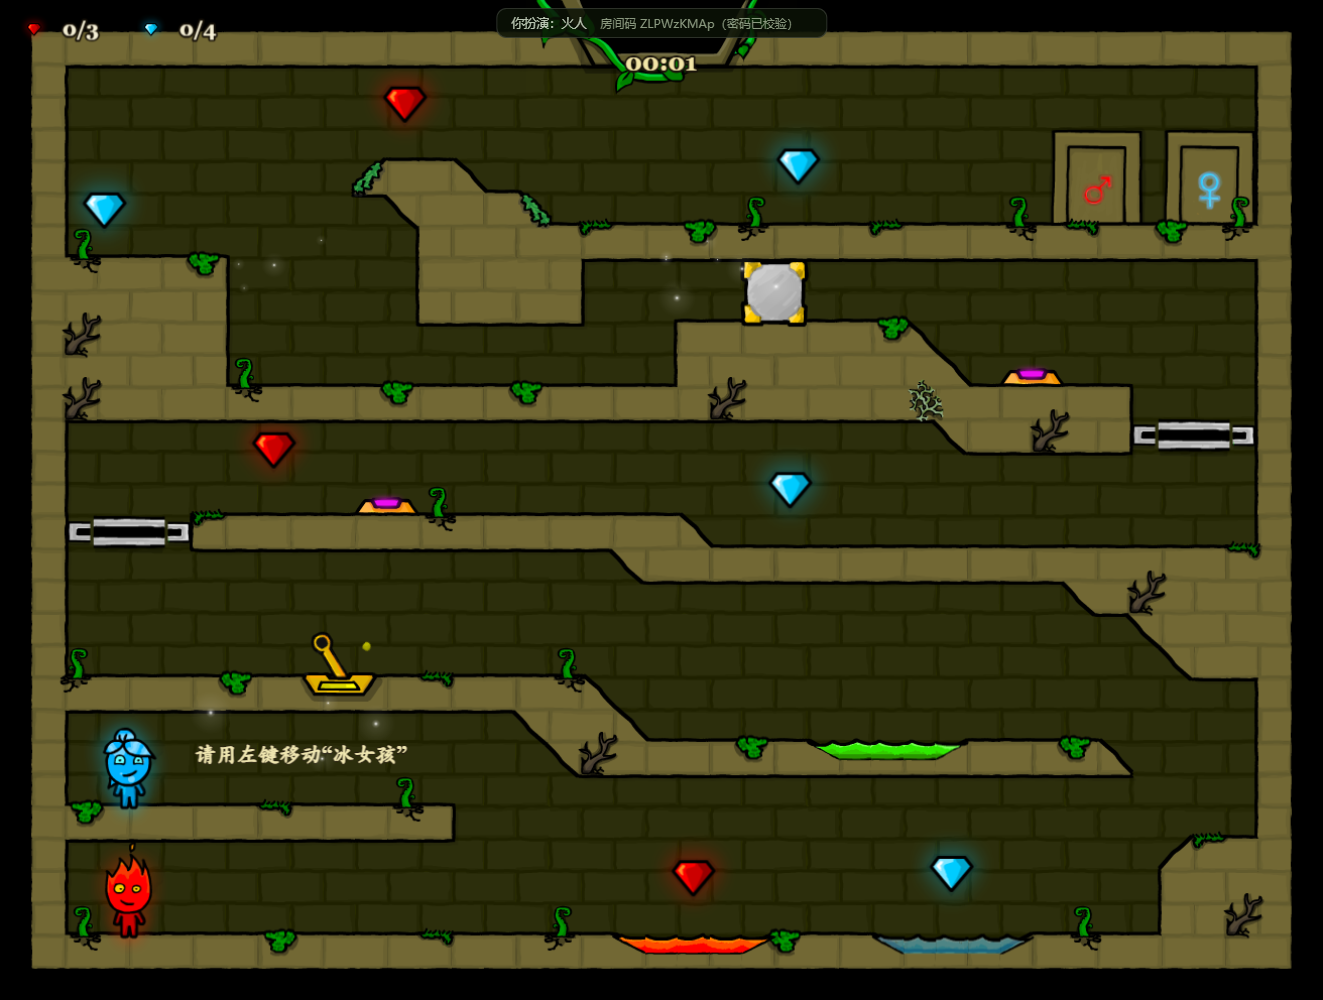
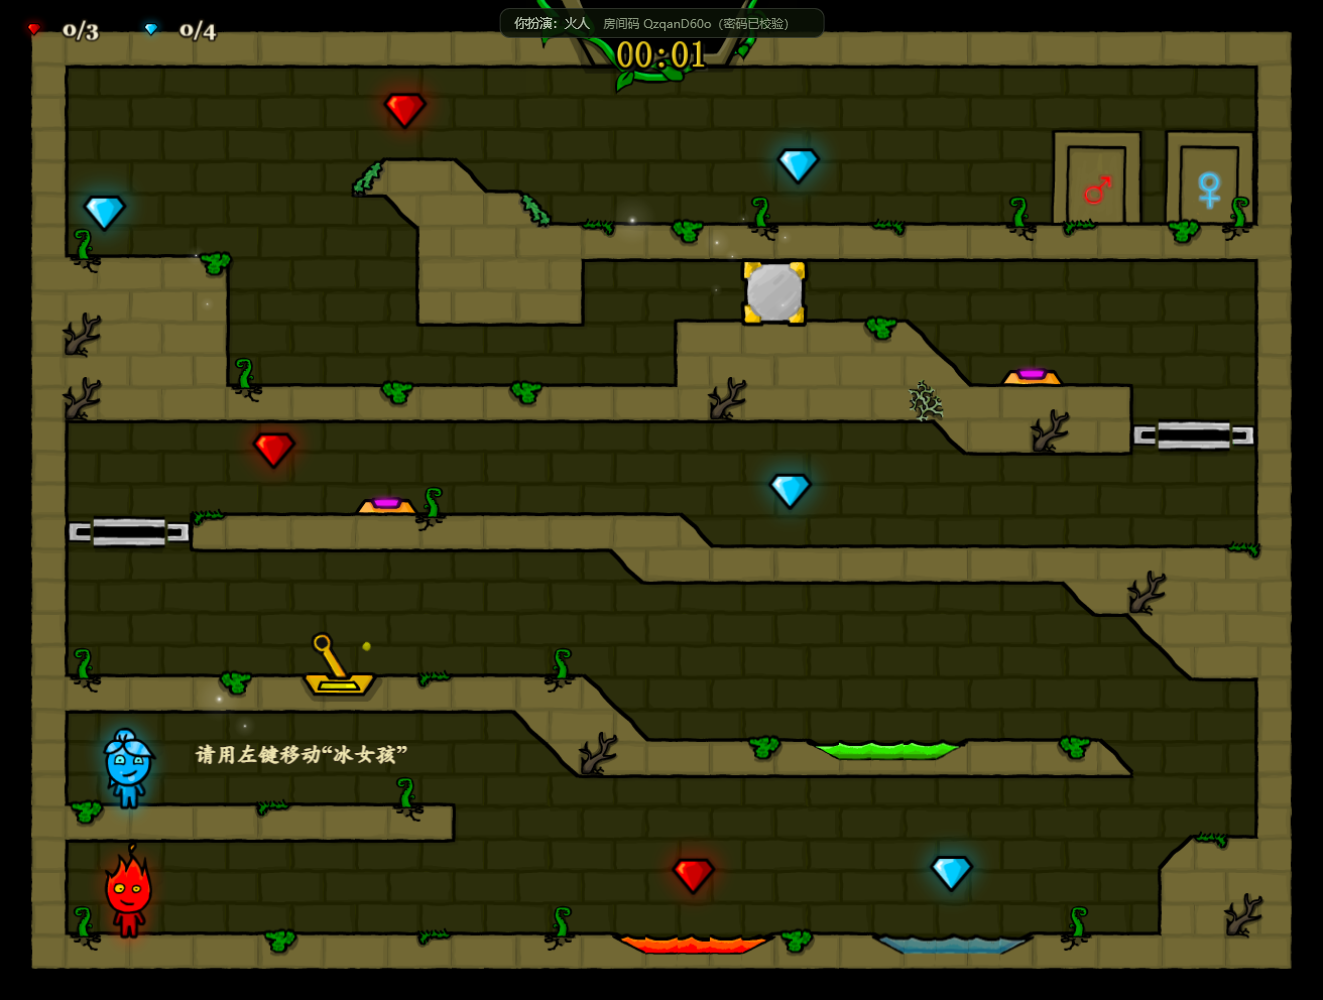
fix(client): 画布内时钟换原版位图字 + 视觉基准网格热图（R8）
- BootScene 加载 font.fnt 位图字；GameScene 时钟文字改 BitmapText（原版字形）
- visual-diff 升级 12×9 网格热图（剩余差异定位：顶行 PAD 字边 + HUD 增项）
- 入房竞态守卫（房间码部分读取重读）
- 报告 §十；版本 0.3.6 → 0.3.7

diff --git a/gyのFW/packages/client/src/scenes/GameScene.ts b/gyのFW/packages/client/src/scenes/GameScene.ts
@@ -21,7 +21,7 @@ import type { LevelData, Rect } from "@fw/shared/level2";
 import type { FinishData, Net } from "../net";
 import type { KeyboardInput } from "../input";
 import { createSeedrandomFactory } from "../vendor/seedrandom.js";
-import { ATLAS_CHARS, ATLAS_GROUND, ATLAS_MECH, ATLAS_MENU, ATLAS_POPUP, ATLAS_TEMPLE, PLAYER_SCALE } from "./BootScene";
+import { ATLAS_CHARS, ATLAS_GROUND, ATLAS_MECH, ATLAS_MENU, ATLAS_POPUP, ATLAS_TEMPLE, FONT_MAIN, PLAYER_SCALE } from "./BootScene";
 
 export interface GameInit {
   net: Net;
@@ -132,7 +132,7 @@ export class GameScene extends Phaser.Scene {
   private windViews = new Map<string, WindView>();
   private doorSprites = new Map<Role, Phaser.GameObjects.Sprite>();
   private doorFrames = new Map<Role, number>();
-  private clockText!: Phaser.GameObjects.Text;
+  private clockText!: Phaser.GameObjects.BitmapText;
   private redHudText!: Phaser.GameObjects.Text;
   private blueHudText!: Phaser.GameObjects.Text;
   private silverHudText: Phaser.GameObjects.Text | null = null;
@@ -727,16 +727,10 @@ export class GameScene extends Phaser.Scene {
   private buildHud(): void {
     const clockX = this.d.level.widthPx / 2 + PAD;
     this.add.image(clockX, 0, ATLAS_TEMPLE, "Clock0000").setOrigin(0.5, 0).setDepth(9);
+    // 原版 LevelUI/Clock：TempleAssets Clock0000 + font 位图字 24 号（bitmapText 基准 48 半缩放）
     this.clockText = this.add
-      .text(clockX, 62, "00:00", {
-        fontFamily: 'Georgia, "Times New Roman", serif',
-        fontSize: "24px",
-        color: "#f3e6a8",
-        stroke: "#1a140a",
-        strokeThickness: 4,
-        fontStyle: "bold",
-      })
-      .setOrigin(0.5)
+      .bitmapText(clockX, 30, FONT_MAIN, "00:00", 24)
+      .setOrigin(0.5, 0)
       .setDepth(9);
 
     const counter = (x: number, frame: string, total: number): Phaser.GameObjects.Text => {

diff --git a/gyのFW/packages/client/src/scenes/BootScene.ts b/gyのFW/packages/client/src/scenes/BootScene.ts
@@ -15,6 +15,7 @@ export const ATLAS_MECH = "mech";
 export const ATLAS_TEMPLE = "temple";
 export const ATLAS_POPUP = "popup";
 export const ATLAS_MENU = "menu";
+export const FONT_MAIN = "font";
 
 /**
  * 官方素材以高分辨率绘制。原版运行时角色帧缩放 0.95（帧含大量透明边距，
@@ -34,6 +35,8 @@ export class BootScene extends Phaser.Scene {
     this.load.atlas(ATLAS_TEMPLE, "/assets/atlasses/Temples/forest/TempleAssets.png", "/assets/atlasses/Temples/forest/TempleAssets.json");
     this.load.atlas(ATLAS_POPUP, "/assets/atlasses/PopupAssets.png", "/assets/atlasses/PopupAssets.json");
     this.load.atlas(ATLAS_MENU, "/assets/atlasses/MenuAssets.png", "/assets/atlasses/MenuAssets.json");
+    // 原版画布内时钟的位图字（font 48 基准，LevelUI Clock 用 24 号 = 半缩放）
+    this.load.bitmapFont(FONT_MAIN, "/assets/fonts/chinese/font.png", "/assets/fonts/chinese/font.fnt");
 
     // 音频（仅本场景触发全集：跳跃/拾取/死亡/开门/拉杆/踏板/平台/水声/音乐）
     // 统一走无扩展名流式路由（/s/ 前缀，服务器补 .mp3）：IDM 等下载接管工具

diff --git a/gyのFW/note/release/0.3.7.md b/gyのFW/note/release/0.3.7.md
@@ -1,0 +1,18 @@
+# 0.3.7 · 画布内时钟字形保真 + 视觉基准网格热图
+
+> 2026-10-06。视觉保真轮：时钟文字换原版位图字；视觉差分基准升级网格热图。
+
+## 画布内 HUD
+
+- 时钟文字从 Georgia 衬线改为**原版 font 位图字**（48 基准半缩放，与 LevelUI/Clock 同字形）。
+
+## 基准
+
+- visual-diff 升级 12×9 网格热图：剩余视觉差异集中在顶行（canvas 64px PAD 字边 +
+  HUD 功能性增项），定位后续视觉优化点。
+- 修复入房竞态（房间码提早部分读取的守卫重读）。
+- 视觉复刻度 86.63（基线）→ 86.62（噪声级，字形修复定性正确）；物理复刻度 84.53 维持。
+
+## 验证
+
+- typecheck + build 全绿；83/83 单测不受影响（纯客户端渲染层）。
